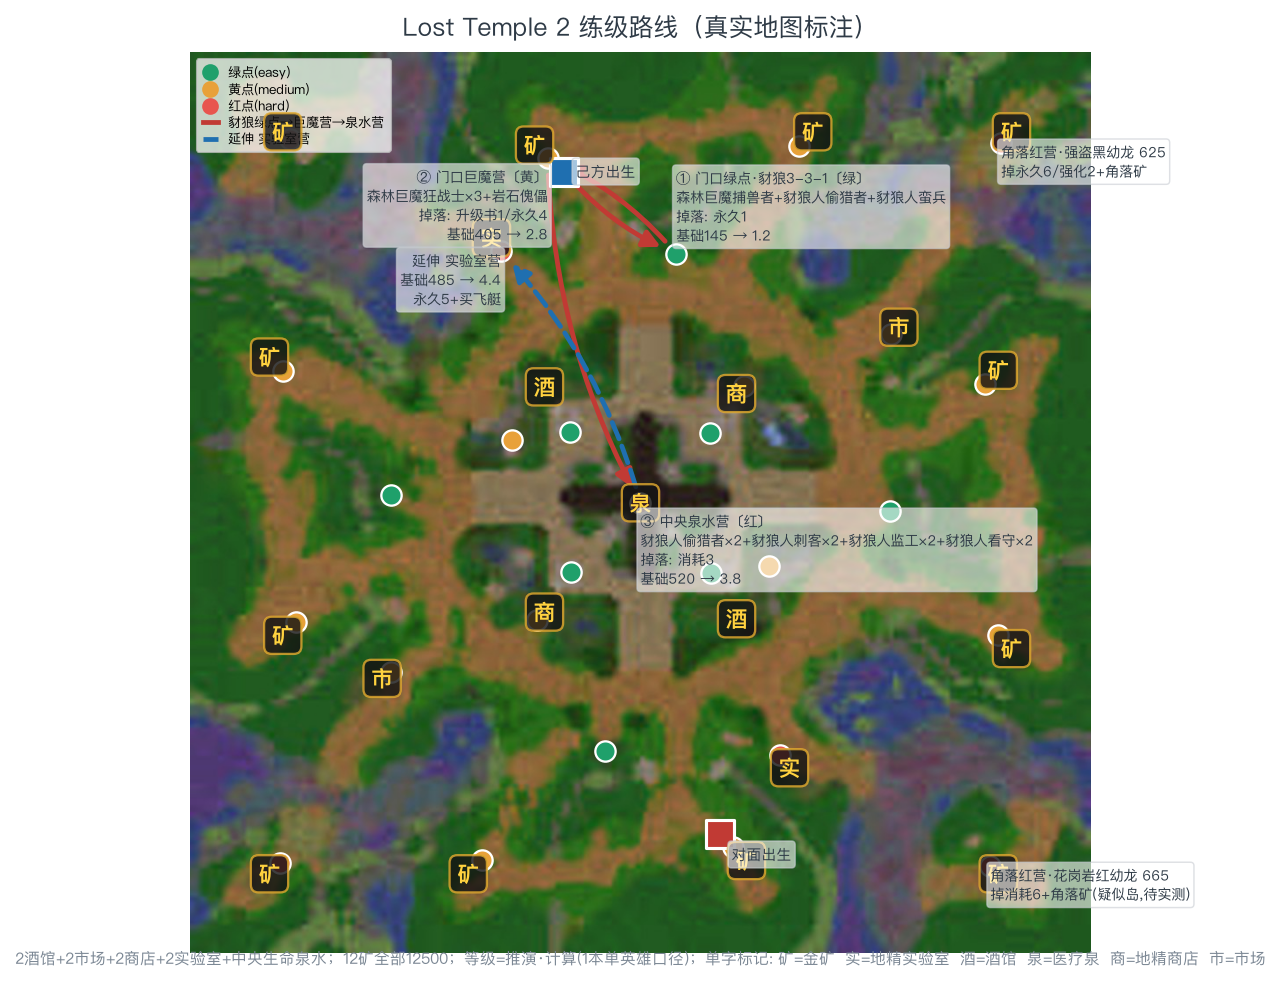
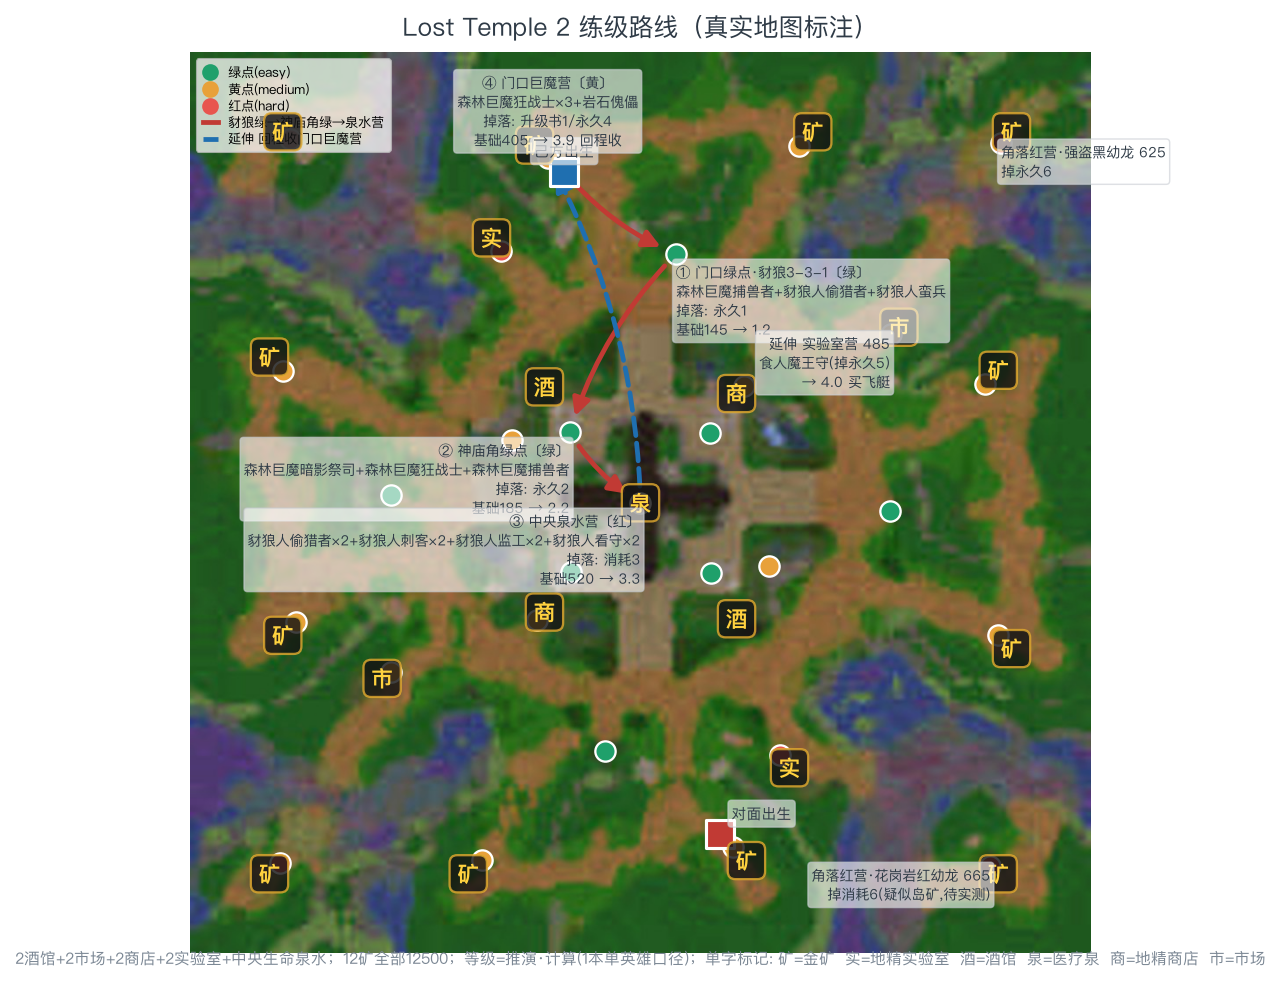
war3: TR2/LT2 路线修正——难度曲线+地理顺路(绿起手→矿营→回程收巨魔营), XP 重算, 标签重叠清理

diff --git a/tools/war3-figures.py b/tools/war3-figures.py
@@ -817,43 +817,46 @@ def fig_routes():
         note="1酒馆+2实验室+2商店+2雇兵营；等级=推演·计算(1本单英雄口径)")
 
     # ---------------- TR2：Turtle Rock 2（2026-10-25 补录；点位/构成/掉落解析自天梯地图文件，与 Liquipedia Preview 互证）
+    # 路线 v2（10-26 修正）：绿海龟→15000 中路矿→回程收门口巨魔营（v2 已降黄点）；延伸商店营→头尾红营
     draw_data("tr2", "Turtle Rock 2 练级路线（真实地图标注）",
-        my=(0.3413, 0.1539), opp=(0.6971, 0.8941), my_lab=("right", "bottom"), opp_lab=("left", "top"),
+        my=(0.3413, 0.1539), opp=(0.6971, 0.8941), my_lab=("center", "bottom"), opp_lab=("left", "top"),
         steps=[
-            (0.3243, 0.1342, "① 门口巨魔营", "基础390 → 2.4", "right", "top"),
-            (0.4718, 0.2696, "② 绿点海龟", "基础135 → 2.7", "center", "bottom"),
-            (0.5073, 0.3442, "③ 中路海龟矿营", "基础360 → 3.4 开15000矿", "left", "top"),
+            (0.4718, 0.2696, "① 绿点海龟", "基础135 → 1.5", "left", "top"),
+            (0.5215, 0.3442, "② 中路海龟矿营", "基础360 → 2.7 开15000矿", "left", "top"),
+            (0.3243, 0.1342, "③ 门口巨魔营", "基础390 → 3.4 掉永久4", "center", "bottom"),
         ],
         extras=[
-            (0.2036, 0.2357, "延伸 蜘蛛蟹营\n基础310 → 3.9", "right", "top"),
-            (0.1905, 0.8510, "延伸 红营·食人魔王\n基础595 → 4.6\n永久5+10000矿", "left", "center"),
+            (0.8451, 0.7828, "延伸 红营 595\n食人魔王守(掉永久5)\n拆完开10000矿 → 4.7", "right", "top"),
         ],
         routes=[
-            ([(0.3413, 0.1539), (0.3243, 0.1342), (0.4718, 0.2696), (0.5073, 0.3442)], C, "-",
-             "门口巨魔→绿海龟→中路矿"),
-            ([(0.5073, 0.3442), (0.2036, 0.2357), (0.1905, 0.8510)], B, "--",
-             "延伸 蜘蛛蟹→红营"),
+            ([(0.3413, 0.1539), (0.4718, 0.2696), (0.5215, 0.3442), (0.3243, 0.1342)], C, "-",
+             "绿海龟→15000中路矿→回程收巨魔营"),
+            ([(0.5215, 0.3442), (0.7361, 0.2940), (0.8451, 0.7828)], B, "--",
+             "延伸 商店营(355→4.0)→红营"),
         ],
+        legend_loc="upper right",
         note="1酒馆(中央)+2商店；4主矿12500+4中路15000+2头尾10000；等级=推演·计算(1本单英雄口径)")
 
     # ---------------- LT2：Lost Temple 2（2026-10-25 补录；点位/构成/掉落解析自天梯地图文件）
+    # 路线 v2（10-26 修正）：豺狼绿→神庙角绿→中央泉水营，回程收门口巨魔营；不再 1 级啃岩石傀儡营
     draw_data("lt2", "Lost Temple 2 练级路线（真实地图标注）",
-        my=(0.4153, 0.1323), opp=(0.5884, 0.8677), my_lab=("left", "center"), opp_lab=("left", "top"),
+        my=(0.4153, 0.1323), opp=(0.5884, 0.8677), my_lab=("center", "bottom"), opp_lab=("left", "bottom"),
         steps=[
-            (0.5395, 0.2236, "① 门口绿点·豺狼3-3-1", "基础145 → 1.2", "left", "bottom"),
-            (0.3970, 0.1177, "② 门口巨魔营", "基础405 → 2.8", "right", "top"),
-            (0.5000, 0.5000, "③ 中央泉水营", "基础520 → 3.8", "left", "top"),
+            (0.5395, 0.2236, "① 门口绿点·豺狼3-3-1", "基础145 → 1.2", "left", "top"),
+            (0.4213, 0.4215, "② 神庙角绿点", "基础185 → 2.2", "right", "top"),
+            (0.5000, 0.5000, "③ 中央泉水营", "基础520 → 3.3", "right", "top"),
+            (0.3970, 0.1177, "④ 门口巨魔营", "基础405 → 3.9 回程收", "center", "bottom"),
         ],
         extras=[
-            (0.3452, 0.2206, "延伸 实验室营\n基础485 → 4.4\n永久5+买飞艇", "right", "top"),
-            (0.9003, 0.1001, "角落红营·强盗黑幼龙 625\n掉永久6/强化2+角落矿", "left", "top"),
-            (0.8884, 0.9029, "角落红营·花岗岩红幼龙 665\n掉消耗6+角落矿(疑似岛,待实测)", "left", "top"),
+            (0.777, 0.3127, "延伸 实验室营 485\n食人魔王守(掉永久5)\n→ 4.0 买飞艇", "right", "top"),
+            (0.9003, 0.1001, "角落红营·强盗黑幼龙 625\n掉永久6", "left", "top"),
+            (0.8884, 0.9029, "角落红营·花岗岩红幼龙 665\n掉消耗6(疑似岛矿,待实测)", "right", "top"),
         ],
         routes=[
-            ([(0.4153, 0.1323), (0.5395, 0.2236), (0.3970, 0.1177), (0.5000, 0.5000)], C, "-",
-             "豺狼绿点→巨魔营→泉水营"),
-            ([(0.5000, 0.5000), (0.3452, 0.2206)], B, "--",
-             "延伸 实验室营"),
+            ([(0.4153, 0.1323), (0.5395, 0.2236), (0.4213, 0.4215), (0.5000, 0.5000)], C, "-",
+             "豺狼绿→神庙角绿→泉水营"),
+            ([(0.5000, 0.5000), (0.3970, 0.1177)], B, "--",
+             "延伸 回程收门口巨魔营"),
         ],
         note="2酒馆+2市场+2商店+2实验室+中央生命泉水；12矿全部12500；等级=推演·计算(1本单英雄口径)")
 
